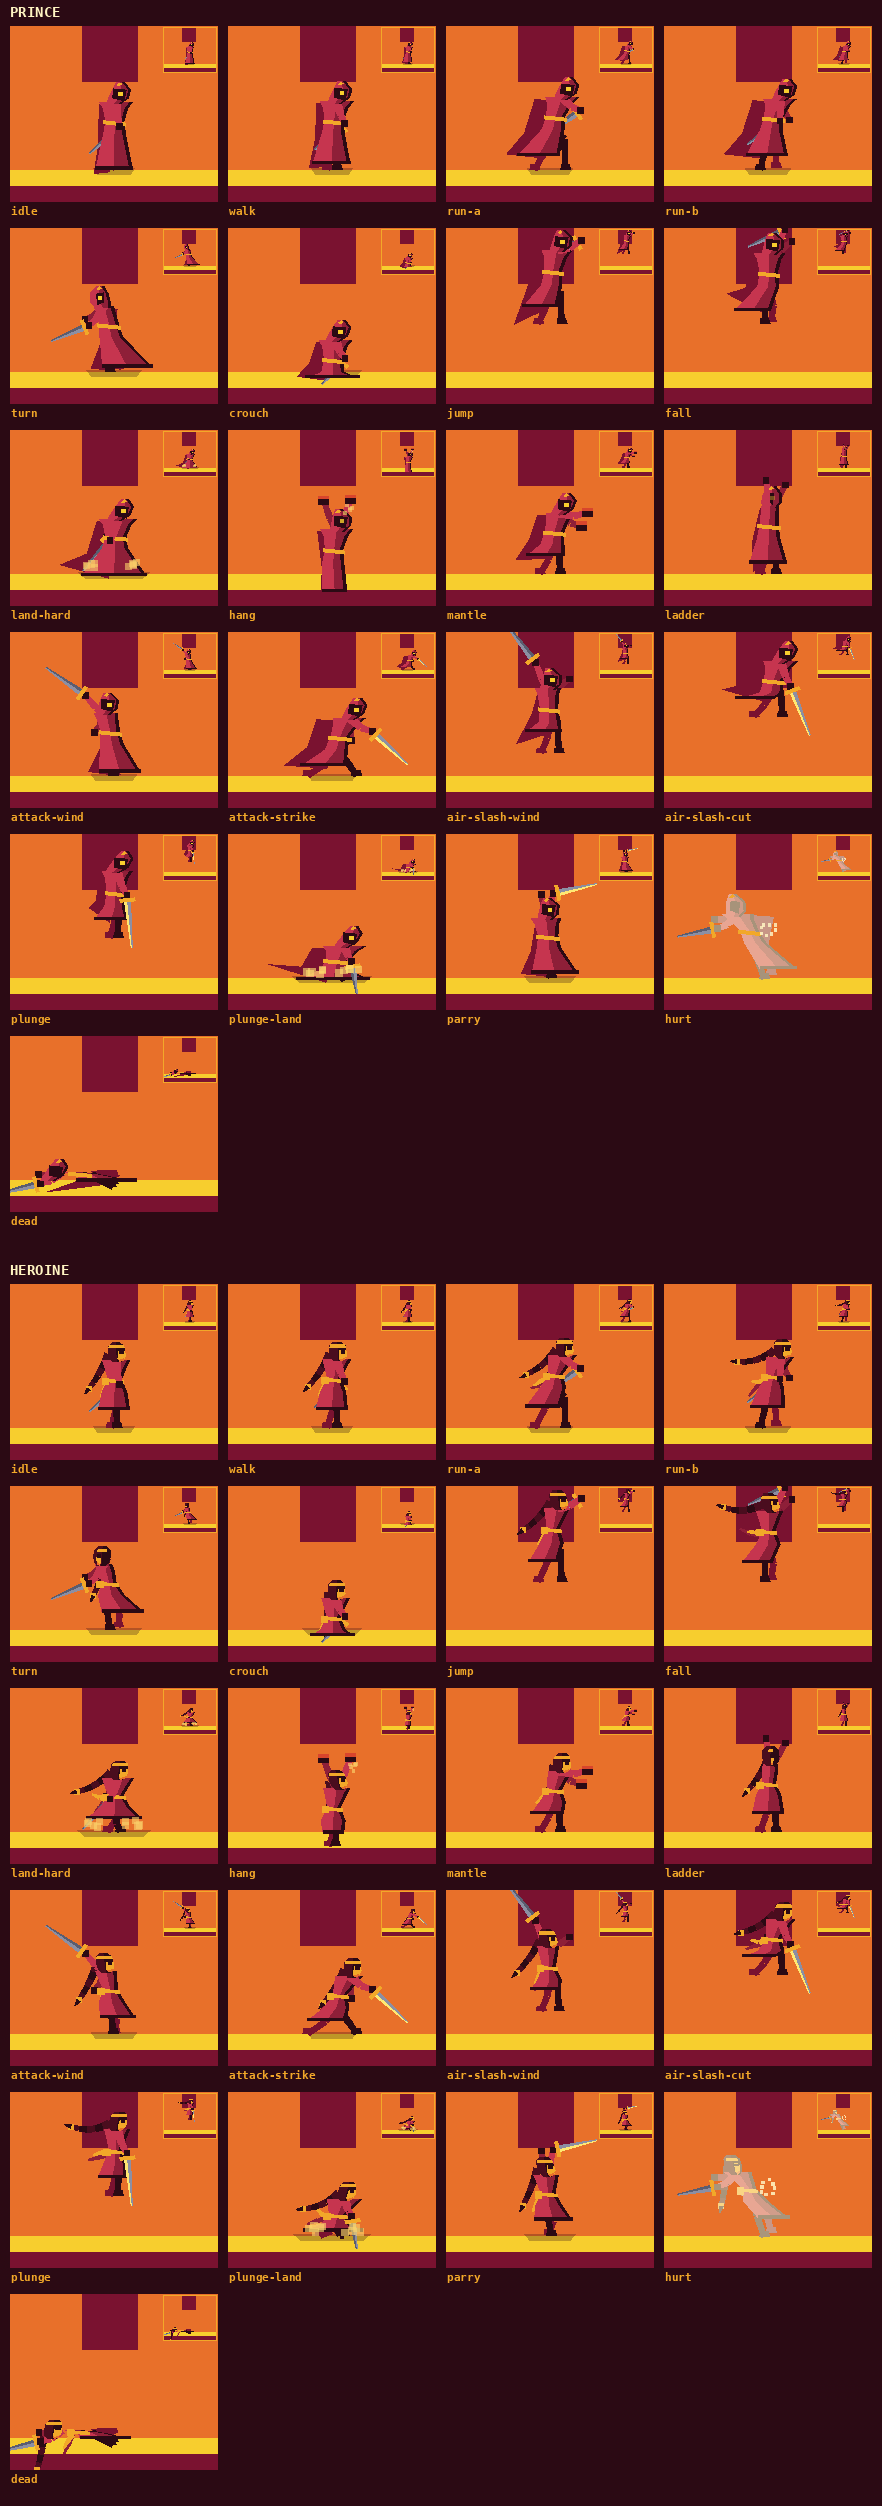
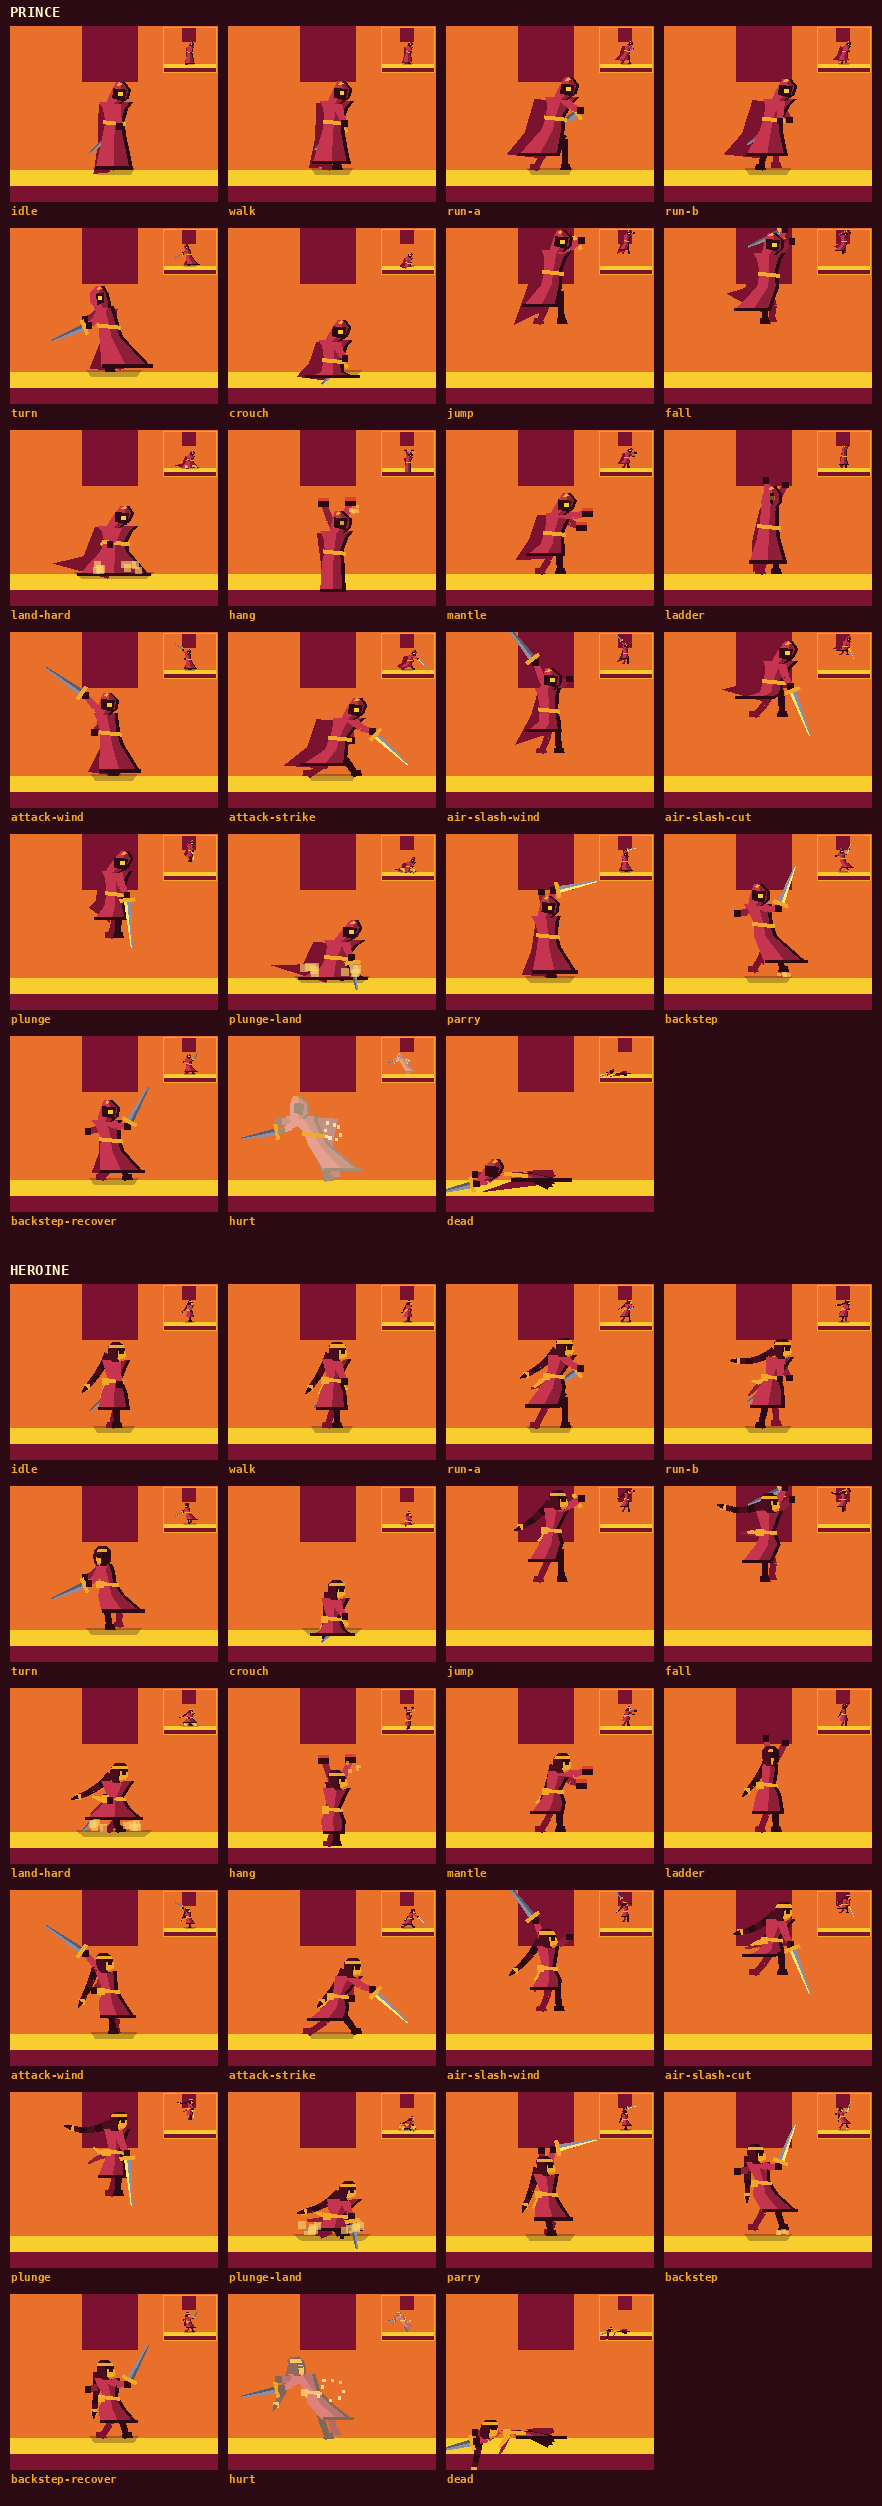
Document the backstep and re-render both figures' pose sheets
docs/character.md gets the move's table, how the stick is read before the
turn, its costs against the guard's beats, and its edges; docs/feel.md
gets its beat and the camera rule it needed; the README's controls table
and paragraph gain it. character-states.png and heroine-poses.png are
re-rendered with the two new backstep poses. The before block of the
first is carried over unchanged, since the old figure has no renderer.

Claude-Session: https://claude.ai/code/session_01CS5kLXfHzuqFJNCkKoEvRT

diff --git a/docs/character.md b/docs/character.md
@@ -76,6 +76,7 @@ does not care:
 | `PLUNGE` | the only vertical line in the moveset: both hands at the hip, point straight down past the tucked feet, every piece of cloth streaming up |
 | `PLUNGE_LAND` | down on one knee over a blade bitten into the stone, drawn short because the buried part is not there to see, then dragged free |
 | `PARRY` | the high guard: weight on the back foot, both hands over the hood and the blade across above it, where the sentinel's cut comes down; the edge gleams only while the parry can still turn a cut |
+| `BACKSTEP` | the parry's opposite: leaning *away*, the blade upright in front of the face rather than level over the hood, the free arm flung back for balance, feet off the floor for the middle of the slide, then the knees taking the weight; the edge gleams only while a cut from the front would miss |
 | `HURT` | thrown back and tilted, hood knocked away, whole figure burned white for 0.14 s |
 | `DEAD` | toppled: the robe keeps its shape, the figure does not |
 
@@ -132,6 +133,103 @@ There is no in-game control hint in the adventure to update — the touch
 buttons are lettered JUMP and SWORD and nothing else is written on screen
 during play — so the combinations are documented in the README's controls
 table, which is where the game tells a player what the buttons do.
+
+## The backstep
+
+The third move made of the stick and SWORD: **stick back + SWORD, on the
+ground**. A slide of `backstep_distance()` — 22.75 px, about 1.4 tiles — away
+from the way the prince faces, the blade raised across his body. For the
+first `BACKSTEP_ACTIVE` (15 frames) a guard's cut **from the front** does not
+land (`Player.evades()`, checked in `Game._resolve_guard()` after the parry).
+From behind — the blade he is stepping back into — or after the window, he is
+hit as normal. The parry *wins* the exchange; the backstep *survives* it.
+
+| | |
+| --- | --- |
+| Touch | stick **back** (away from the way he faces) + **SWORD**, on the ground |
+| Keyboard / pad | back + sword |
+| Slide | `BACKSTEP_SPEED` 210 px/s falling linearly to nothing over `BACKSTEP_SLIDE` (12 frames); `Tuning.backstep_speed()` is both what moves him and what `backstep_distance()` integrates |
+| Whole move | `BACKSTEP_TIME` (27 frames): nothing comes out of it — no swing, no jump, no turn, no second backstep — until it is over |
+| Window | `BACKSTEP_ACTIVE` (15 frames), from the front only |
+| Rearm | `BACKSTEP_REARM` (12 frames) after the end before the stick and SWORD can make another |
+| Feel | cloth at −2 dB and the `sword` voice low and soft (pitch 0.7, −10 dB) as a whoosh under it, both through `GameAudio.cue`; five motes of grit thrown forward from the front foot; the camera dips one pixel (`settle` 0.3) and holds its lead |
+
+### How the stick is read, before the turn
+
+Standing or walking, the stick going back turns the prince on the spot, on
+that frame. A backstep that came out after that turn would step back facing
+away from the blade, so `_reads_backstep()` reads the stick against the facing
+he had *before* it:
+
+- **Stick and button on the same frame:** the turn has not happened yet. It is
+  a backstep if that turn would have been on the spot (`|velocity.x|` at or
+  under `WALK_SPEED`).
+- **Stick a few frames first:** within `BACKSTEP_READ` (6 frames, as long as a
+  planted `TURN` lasts) of an on-the-spot turn, SWORD takes the turn back and
+  backsteps. A thumb never lands the stick and the button together. A second
+  turn inside that time is a wiggle and cancels the first, so back-forward-
+  SWORD swings forward instead of stepping toward the blade.
+- **At a run:** the stick behind plants a `TURN`, as it always has, and a
+  SWORD press in it swings the new way when the turn is done. A running
+  prince's weight is going forward; the backstep is a move from a stance.
+- **Up wins over back:** up-and-back with SWORD is the parry. A diagonal is a
+  thumb reaching for up past a stick that has drifted.
+- **SWORD first, stick after:** a swing, as for the parry.
+- **Inside the rearm:** the press is whatever it was before the backstep
+  existed — a swing the way he faces.
+
+### What it costs, against the guard's beats
+
+`tests/unit/test_backstep.gd` pins each of these against `Patrol`'s 27-frame
+raise, 9-frame cut and 33-frame opening, reads the stick and plays the window;
+`tests/unit/test_backstep_costs.gd` plays the costs, the edges below, the one
+swing and the feel beat. Each test was seen to fail with the thing it guards
+broken on purpose.
+
+- **The window outlasts a cut, not a raise.** 15 > 9, so with his back to a
+  wall a timed backstep outlasts the whole cut; 15 < 27, so thrown on sight
+  with nowhere to go it is over before the blade comes down.
+- **No riposte, no reel.** `evades()` arms nothing, the guard goes into his
+  plain `RECOVER` (33 frames) instead of the parried reel (54), and a SWORD
+  press does not cut the backstep short.
+- **Ground is lost.** From where a guard raises (`ENGAGE_GAP`), 22.75 px is
+  four times the 5.3 px needed to step out of his cut. Take the latest
+  backstep that *needed* its window — thrown two frames before the cut, too
+  late to slide clear — and its 27 frames, the run back over the lost ground
+  and the swing's lead come to 44 frames from the cut, against an opening that
+  closes at 42 (the cut's 9 plus `RECOVER`'s 33). The test models the run with
+  the real acceleration and the swing pressed on the run, sliding into reach.
+  The parry thrown in the same frames gets its riposte in at once.
+- **Blocked, it still answers later than the parry.** Against a wall or at a
+  lip the backstep loses no ground, and then the guard's opening *is* his — 25
+  frames after the cut, where the parry's riposte comes after the clang's 5
+  held frames. A prince with his back to a drop has paid in position already.
+- **It does not chain.** The hole between the windows of two backsteps as close
+  as they can come is 12 + 12 frames, longer than a cut, and a chain retreats
+  at 34 px/s, slower than a walk. A held stick and a mashed button make one.
+
+### Edges and the grammar
+
+**It stops at the lip, as a careful step does.** `Player._careful()` lets the
+body end each frame only with the whole of it over floor (solid or one-way)
+and none of it in spikes or water; otherwise it stops with the heel on the
+edge of the last tile. The tests put a nine-tile drop, a one-tile gap and a
+spike pit behind him. A backstep that starts already overhanging a lip goes
+nowhere, and keeps its window.
+
+**It is not grammar.** It is ground-only (back + SWORD in the air is the air
+slash), no jump comes out of it (a jump out of the slide would carry its speed
+into the air), and it crosses no gap of any width, so no level can come to
+depend on it and `LevelReachability` offers it nowhere. `hop_tiles()`,
+`platform_step_tiles()`, `grab_tiles()` and `gap_tiles()` are unchanged.
+
+**It breaks no wall.** The raised blade is not a blow: `attack_rect()` stays
+empty for the whole move, so it neither wounds a guard nor opens a cracked
+wall, and it fires no `attacked`, so one swing still takes one heart. Its body
+does open a false wall it slides into, exactly as walking into one does.
+
+**Not idle.** `IdleArt.is_calm()` is true only in `IDLE`, so a backstep and
+its recovery never start a fidget.
 
 ## Adding a state
 
@@ -439,8 +537,8 @@ costume.draw_*()` lines in `_draw()` and one `costume.tick()` in `_process()`.
 
 The consequence that matters: **a pose added to `player_art.gd` or
 `sword_poses.gd` is the heroine's too, with no change to her file.** The air
-slash, the plunge, its landing and the parry arrived after her costume was
-written and she wears all four, and so the idle ladder (below). `tests/unit/test_figure_poses.gd` draws every
+slash, the plunge, its landing, the parry and the backstep arrived after her
+costume was written and she wears all five, and so the idle ladder (below). `tests/unit/test_figure_poses.gd` draws every
 `Player.State` and every `Fighter.State` as both figures, reading the states
 from the enums, so a new state is covered the moment it exists. It fails on a
 plane Godot cannot triangulate (a polygon that folds over in some pose) and on

diff --git a/docs/feel.md b/docs/feel.md
@@ -42,7 +42,7 @@ lists what was built and then removed.
 The resting behaviour is unchanged: a dead zone (Godot's drag margins) so a
 hop or a turn-around does not shove the screen about, and a vertical anchor on
 the last grounded height so jumping does not pan the view. What is new is that
-four beats bend it.
+five beats bend it.
 
 | Beat | What the frame does | Budget |
 | --- | --- | --- |
@@ -51,6 +51,7 @@ four beats bend it.
 | **a long fall** | follows down, and leads the fall so the ground arrives before the player does | `FALL_LEAD_MAX`, 30 px |
 | **a ledge grab** | stops leading, lifts onto the ledge being taken | `GRAB_LIFT`, 10 px |
 | **a hard landing** | settles with the weight of it, then recovers | `SETTLE_MAX`, 4 px |
+| **a backstep** | holds the lead where it was; dips one pixel | 0.3 of `SETTLE_MAX` |
 
 All the vertical reframing added together is 44 px of a 180 px frame, and
 `tests/feel_camera_test.gd` fails if that grows past 48.
@@ -148,11 +149,29 @@ held frames, camera, sparks through `PlayerFx.sword_hit()`, and sound through
 | plunge meets stone | 0 | shake 2.2, on top of the hard landing's own | at the point, 0.45 | `sword_hit` at 0.62 under the landing's thump |
 | parry turns a cut | 5 | shake 0.8, settle 0.35 | where the blades meet, 0.7 | `sword_hit` at 1.35: a bright clang, not the dull wound |
 
+| backstep pushes off | 0 | no shake; settle 0.3 (one pixel); the lead is held | none: five motes of grit thrown forward from the front foot | `cloth` at −2 dB with `sword` at 0.7, −10 dB under it: a whoosh, not a swing |
+| backstep lets a cut by | 0 | nothing | none | nothing beyond the guard's own `sword` |
+
 The plunge into stone holds no frames on purpose. Hitstop is for something
 that resists you, and the floor was simply there — the same reason a landing
 does not hold any (below). The parry's camera is nearly still on purpose too:
 a parry is the prince standing his ground, and a frame that lurches says the
 opposite.
+
+The backstep is the quietest beat of all, because nothing connects. Its feel
+is the push-off — the grit, the cloth, the low whoosh of the blade drawn back,
+and the frame giving one pixel as the weight goes onto the rear foot
+(`Game.BACKSTEP_SETTLE`). A cut it lets by has no beat of its own: no hitstop,
+since nothing resisted, and no spark or clang, since nothing met. The guard's
+cut is already heard, and the hit that did not land is the read.
+
+One camera rule had to change for it. The lead is scaled by speed and aimed by
+facing, and the backstep is the one move that is fast while facing against its
+own motion: left alone, it threw the frame most of a full lead *toward* the
+guard and drifted it back over a second — a lurch on every dodge. While
+`Player.is_backstepping()`, `GameCamera` holds the lead where it was, and the
+dead zone takes the 23 px step. `tests/unit/test_backstep_costs.gd` fails if
+the lead moves.
 
 ### Hitstop and the duel — read this before changing anything
 

diff --git a/README.md b/README.md
@@ -67,6 +67,7 @@ repository owner should set up (the `DEBUG_KEYSTORE_B64` secret), is in
 | Air slash   | Sword in the air    | X / B         | **SWORD** in a jump or fall |
 | Plunge      | Down + sword in the air | Down + X / B | Stick down + **SWORD** in the air |
 | Parry       | Up + sword          | Up + X / B    | Stick up + **SWORD**       |
+| Backstep    | Back + sword        | Back + X / B  | Stick back + **SWORD**     |
 | Walk (slow) | `Shift`             | L1            | Small stick deflection     |
 | Pause       | `Esc` / `P`         | Start         | **II**                     |
 | Mute        | `M`                 | —             | —                          |
@@ -80,7 +81,12 @@ sword in the air is the **plunge**: straight down, point first, onto a guard's
 head — it springs you back off him, but a plunge that misses bites the floor
 and holds you there. Up and sword on the ground is the **parry**: it turns a
 guard's cut if it is up when the blade comes down, opens him for a riposte,
-and leaves you open if you raise it too soon. Jump on a ladder to leap off it,
+and leaves you open if you raise it too soon. Back (away from the way you
+face) and sword on the ground is the **backstep**: a skip of about a tile and
+a half back, still facing him, and his cut from the front misses you for the
+first quarter-second. It gives up the ground and the riposte, cannot be thrown
+twice in a row, and stops at the edge of a drop rather than going over it.
+Jump on a ladder to leap off it,
 sideways if you hold a direction. A relic gives back a heart.
 
 Presses are forgiven at both ends: a jump made a moment before you land still
